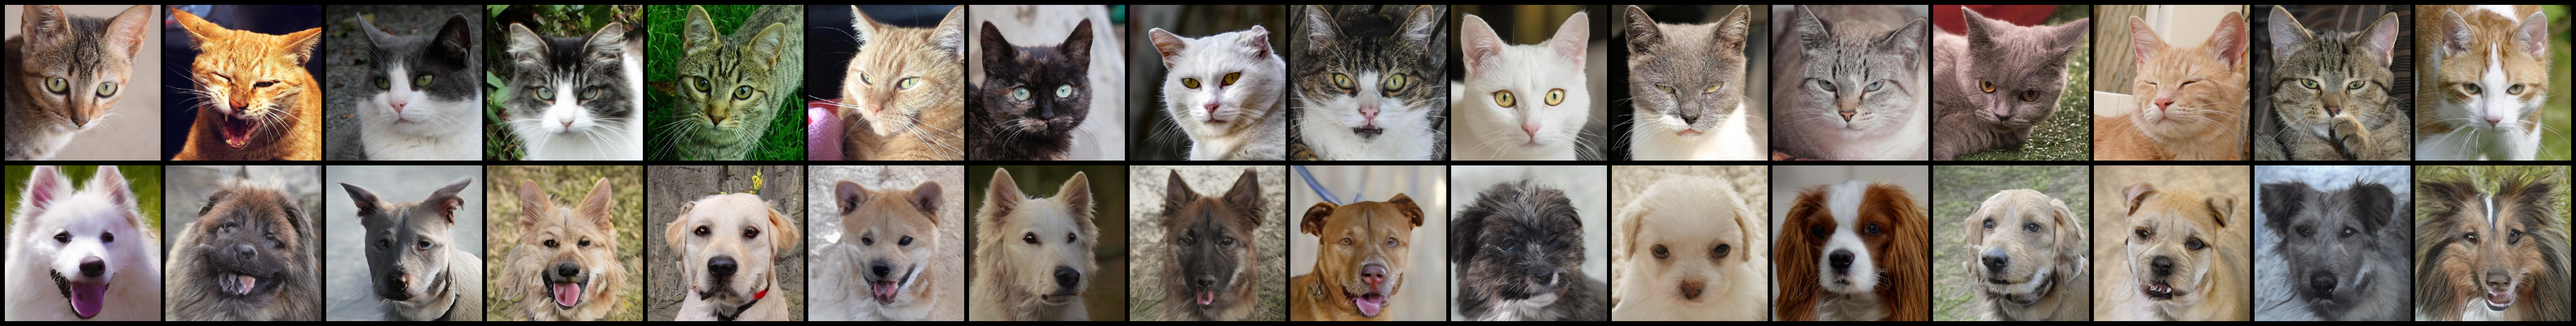
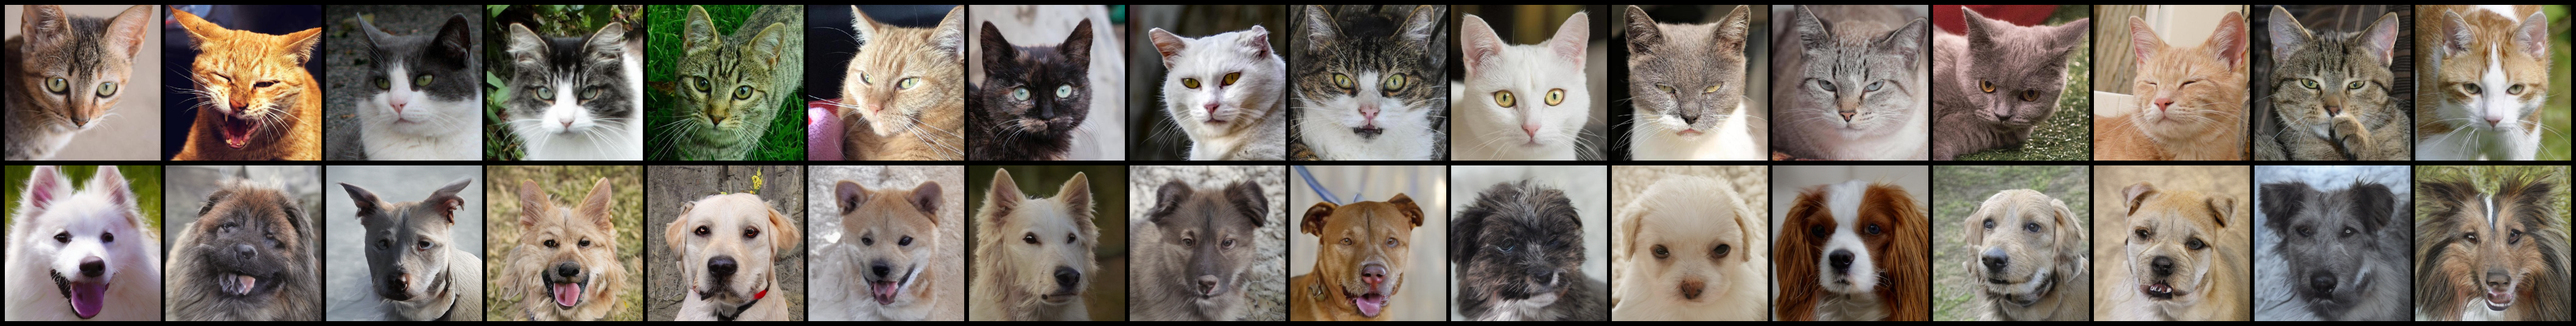
d

Changed region(s): [[0.4367, 0.5075, 0.4991, 0.9851]]

diff --git a/infoot/infoot_fit.py b/infoot/infoot_fit.py
@@ -30,7 +30,7 @@ with torch.no_grad():
     solver = infoot.FusedInfoOT(
         Xs, Xt, h=args.h, reg=args.reg, lam=args.lam,
     )
-    P = solver.solve(numIter=100, verbose=True)
+    P = solver.solve(numIter=50, verbose=True)
 
 infoot.save_plan(bank_dir / "cat_to_dog_plan.pt", P, args.h, args.reg, args.lam)
 print("Transport plan:", P.shape)
